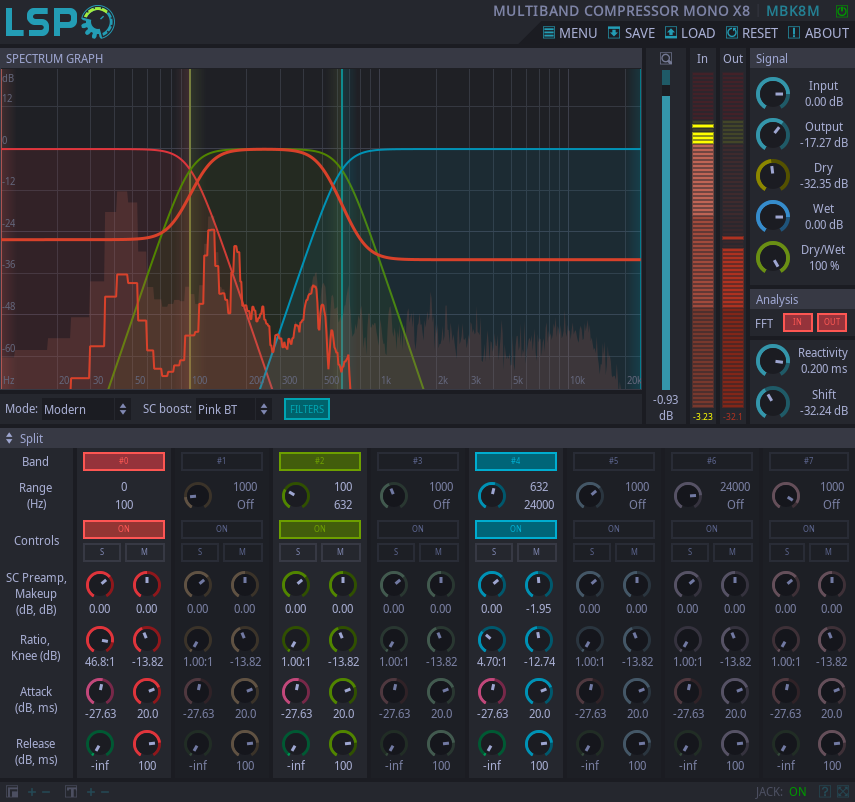
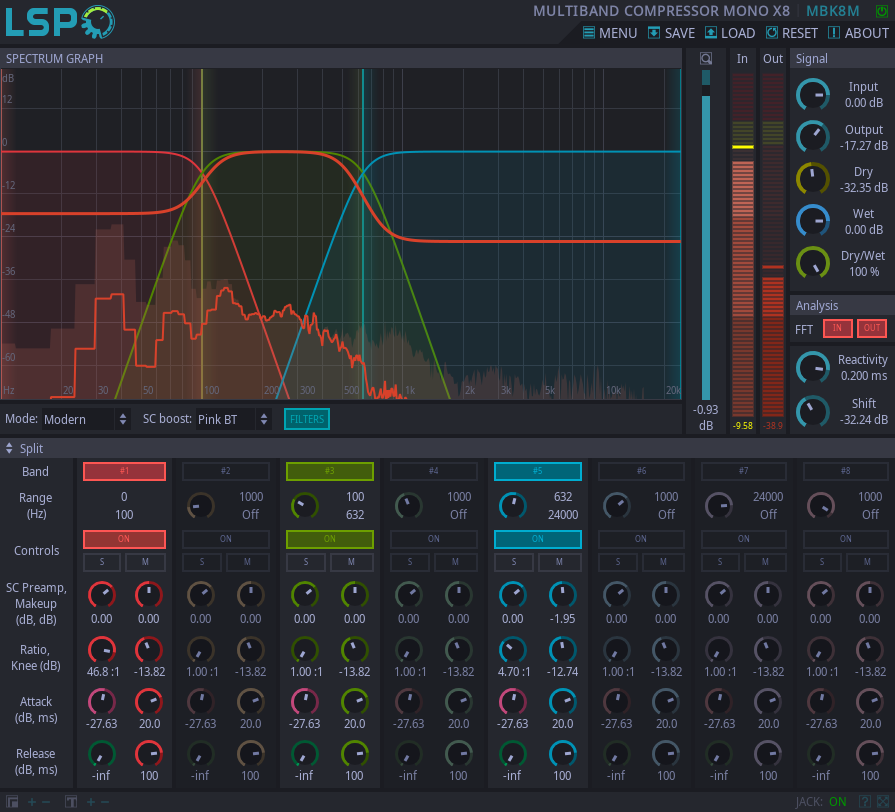
Changed the numbering of splits.
The numbering of splits starts with one, at the UI level.
Updated screenshots.

diff --git a/src/main/ui/mb_compressor.cpp b/src/main/ui/mb_compressor.cpp
@@ -281,7 +281,7 @@ namespace lsp
                 else
                     lc_string.set("lists.mb_comp.splits.index.split_id");
 
-                lc_string.params()->set_int("id", (vSplits.index_of(s) % (meta::mb_compressor_metadata::BANDS_MAX-1))+1);
+                lc_string.params()->set_int("id", (vSplits.index_of(s) % (meta::mb_compressor_metadata::BANDS_MAX-1))+2);
                 lc_string.format(&text);
                 params.set_string("id", &text);
                 lc_string.params()->clear();
